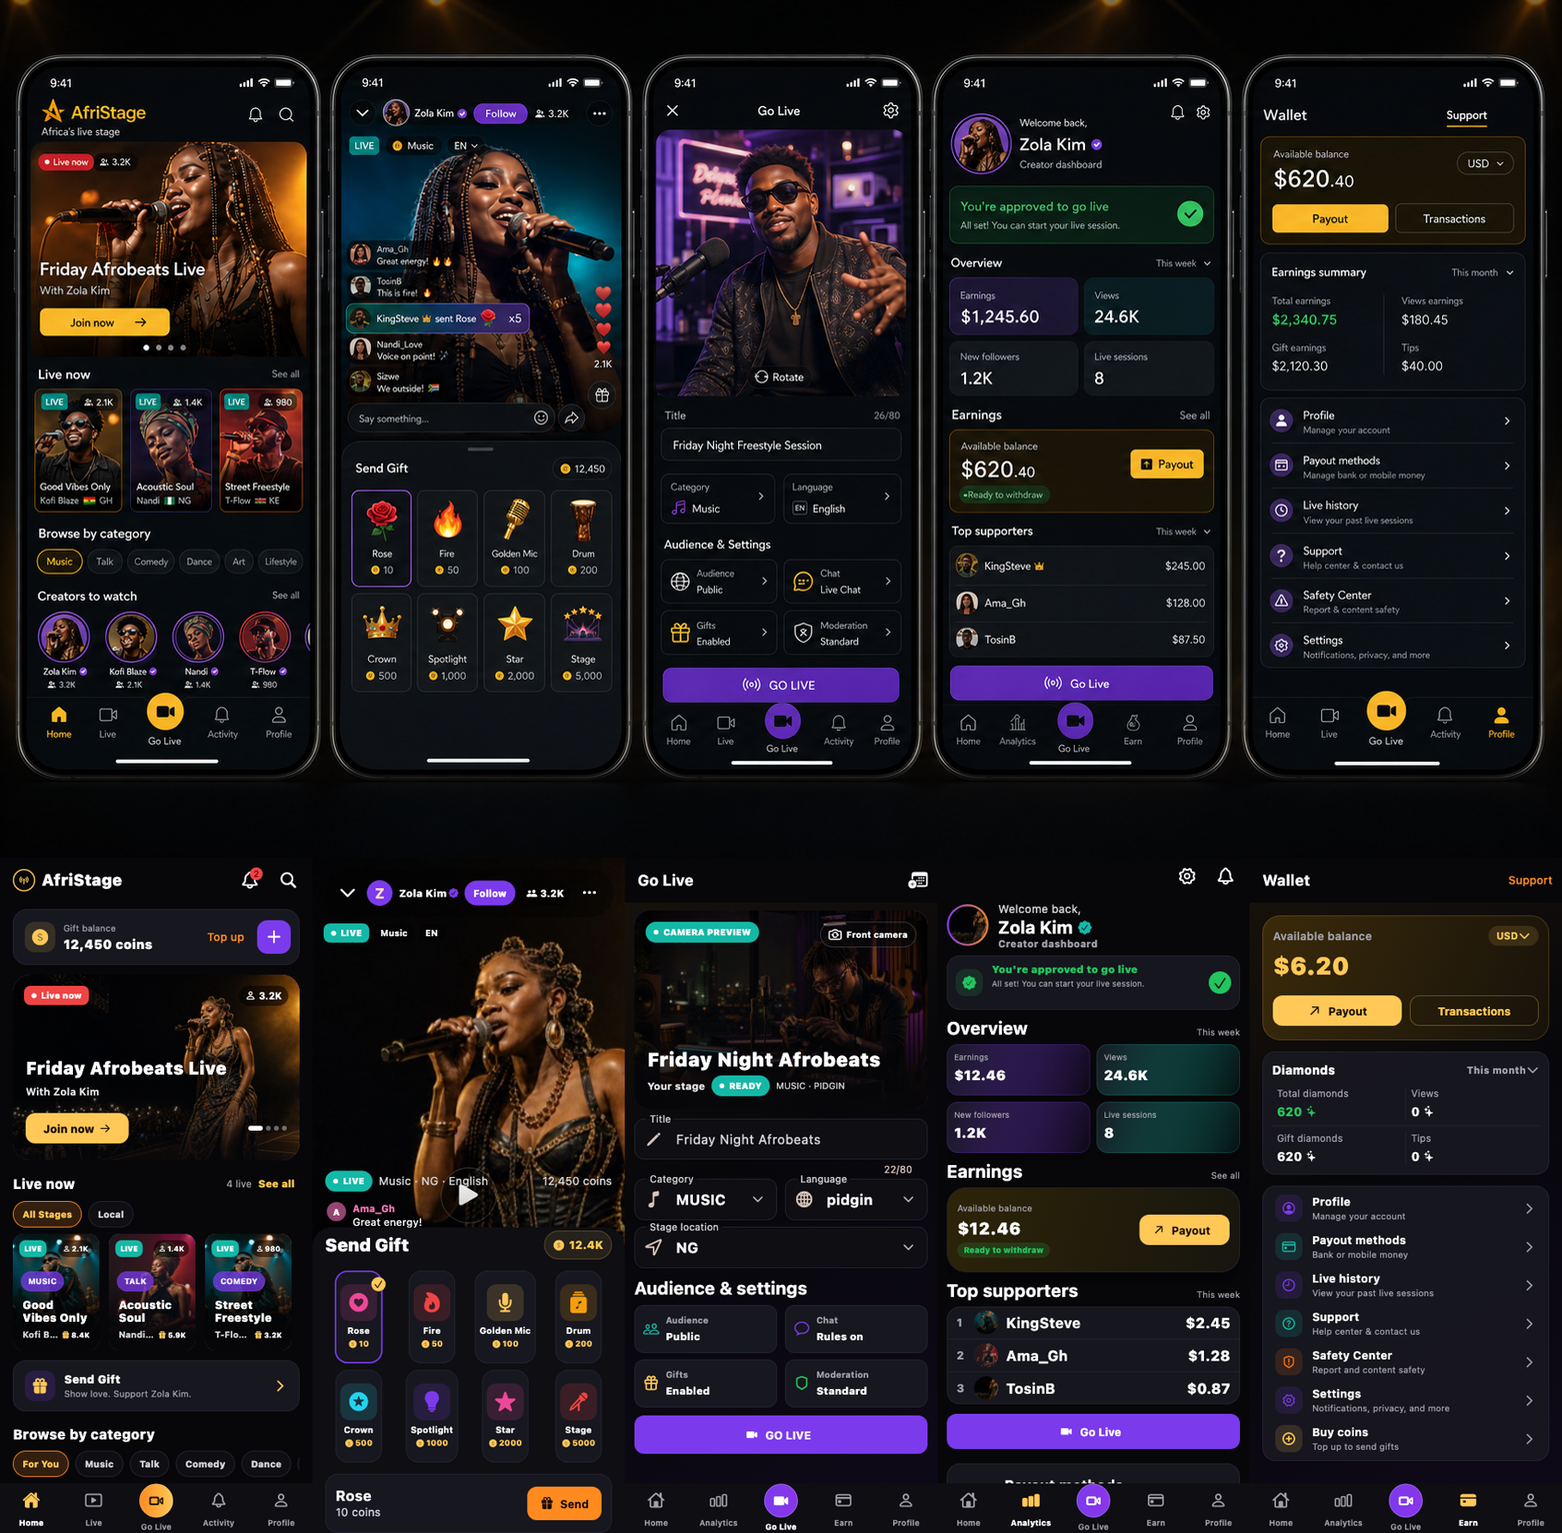
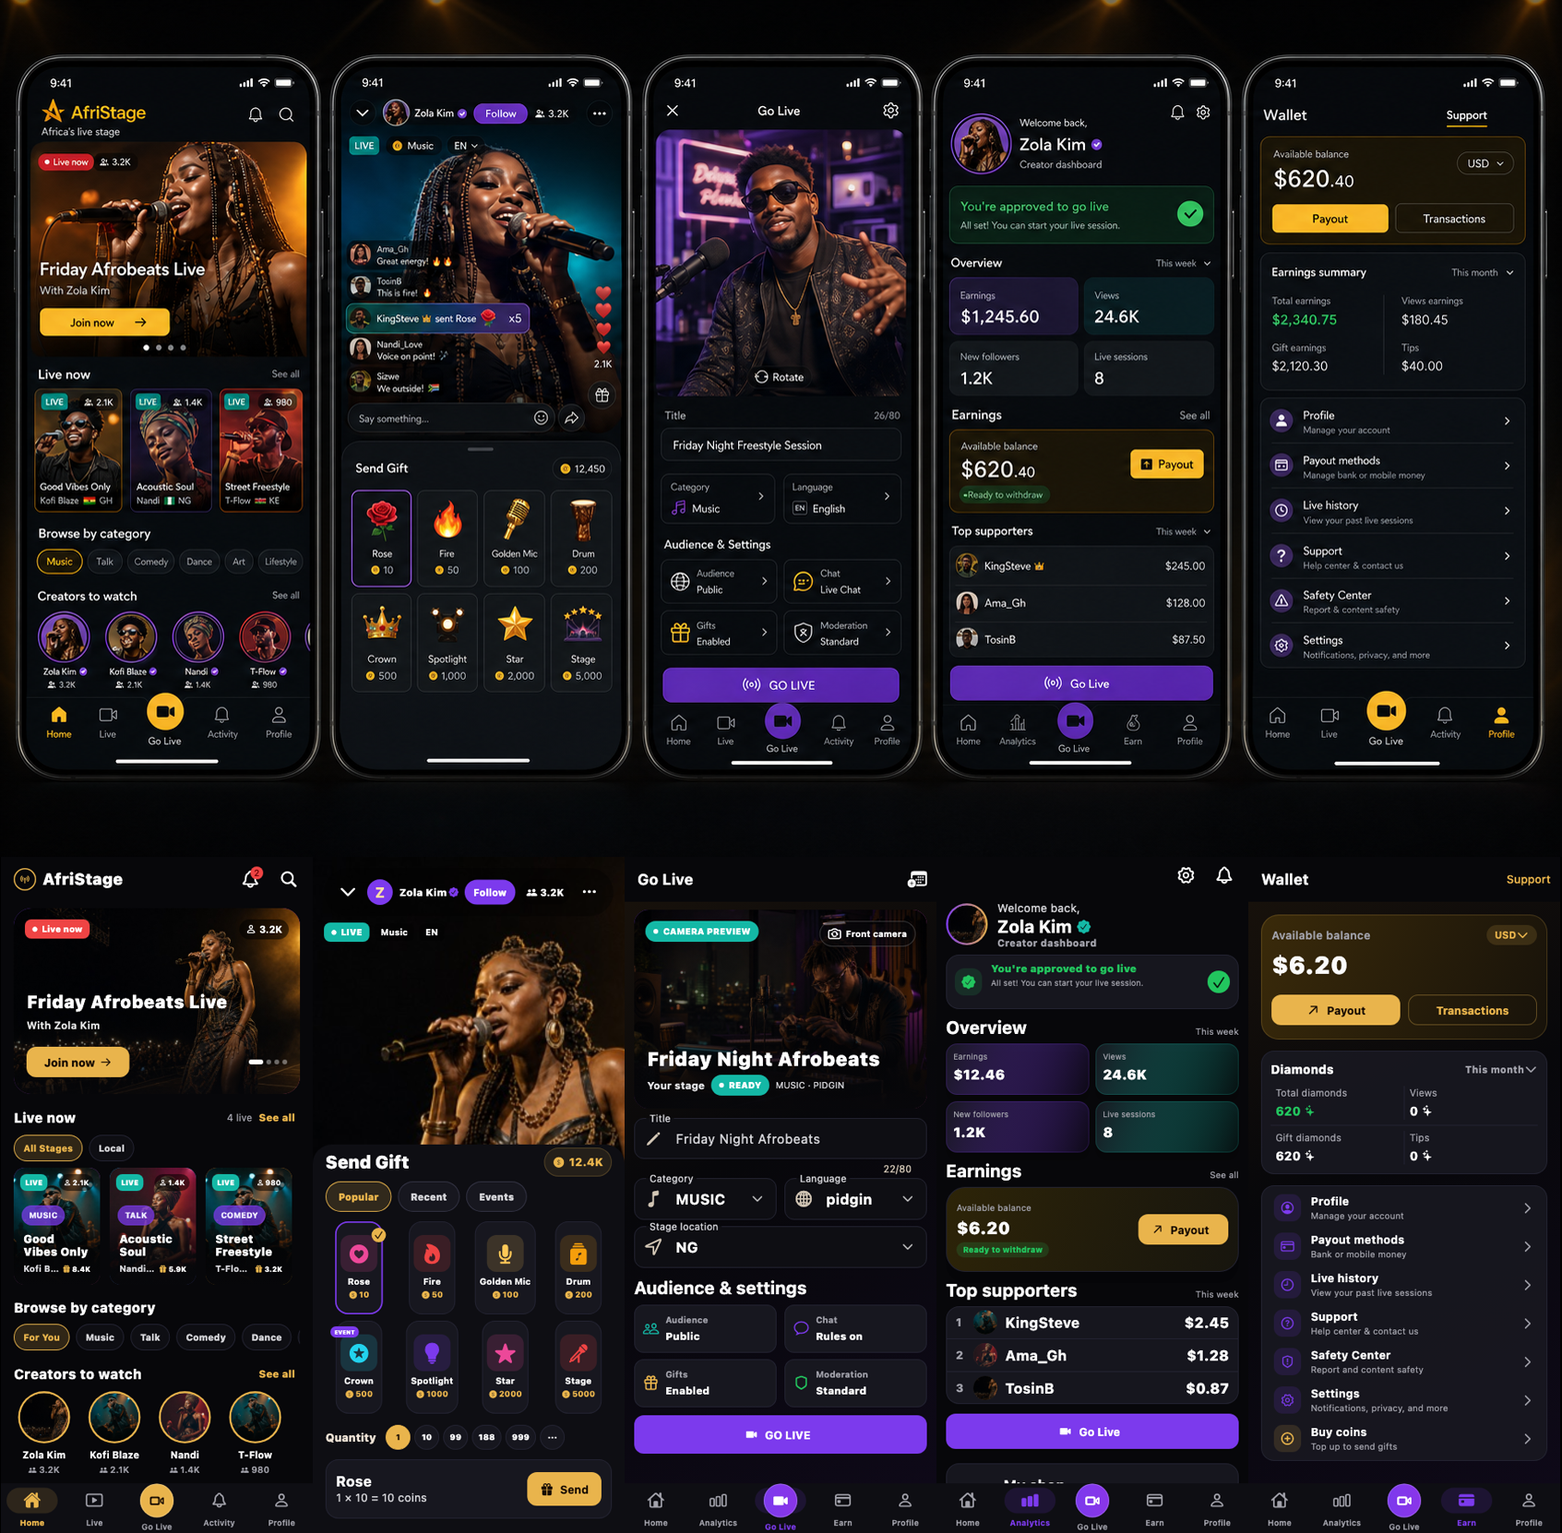
Lead mobile discovery with live content (#307)

diff --git a/apps/mobile/lib/screens/feed_screen.dart b/apps/mobile/lib/screens/feed_screen.dart
@@ -257,16 +257,6 @@ class _FeedScreenState extends State<FeedScreen> {
             return ListView(
               padding: const EdgeInsets.fromLTRB(16, 8, 16, 28),
               children: [
-                _HomeUtilityBar(
-                  coins: coins,
-                  isCreator: state.isCreator,
-                  onWallet: () => Navigator.push(
-                    context,
-                    MaterialPageRoute(builder: (_) => const WalletScreen()),
-                  ),
-                  onGoLive: () => _openCreatorTools(state),
-                ),
-                const SizedBox(height: 12),
                 // Hero featured live card.
                 if (hero != null)
                   AfriHeroLive(
@@ -329,14 +319,6 @@ class _FeedScreenState extends State<FeedScreen> {
                       ),
                     ),
                   ),
-                if (hero != null) ...[
-                  const SizedBox(height: 12),
-                  _SupportCreatorRow(
-                    creator: hero.hostName ?? 'this creator',
-                    onTap: () => _openRoom(hero),
-                  ),
-                ],
-
                 // Upcoming.
                 if (_upcoming.isNotEmpty) ...[
                   const SizedBox(height: 22),
@@ -352,6 +334,30 @@ class _FeedScreenState extends State<FeedScreen> {
                     items: _categories,
                     selected: _category,
                     onSelected: (v) => setState(() => _category = v)),
+
+                if (creators.isNotEmpty) ...[
+                  const SizedBox(height: 16),
+                  _SectionHeader(
+                      title: 'Creators to watch', onSeeAll: _openSearch),
+                  const SizedBox(height: 8),
+                  SizedBox(
+                    height: 122,
+                    child: ListView.separated(
+                      scrollDirection: Axis.horizontal,
+                      itemCount: creators.length,
+                      separatorBuilder: (_, __) => const SizedBox(width: 12),
+                      itemBuilder: (_, i) {
+                        final r = creators.values.elementAt(i);
+                        return AfriCreatorRing(
+                          name: r.hostName ?? 'Creator',
+                          imageUrl: r.coverImageUrl ?? r.hostAvatarUrl,
+                          viewerCount: r.viewerCount,
+                          onTap: () => _openCreator(r),
+                        );
+                      },
+                    ),
+                  ),
+                ],
 
                 if (rooms.isNotEmpty) ...[
                   const SizedBox(height: 18),
@@ -384,27 +390,11 @@ class _FeedScreenState extends State<FeedScreen> {
                   ),
                 ],
 
-                if (creators.isNotEmpty) ...[
-                  const SizedBox(height: 16),
-                  _SectionHeader(
-                      title: 'Creators to watch', onSeeAll: _openSearch),
-                  const SizedBox(height: 8),
-                  SizedBox(
-                    height: 122,
-                    child: ListView.separated(
-                      scrollDirection: Axis.horizontal,
-                      itemCount: creators.length,
-                      separatorBuilder: (_, __) => const SizedBox(width: 12),
-                      itemBuilder: (_, i) {
-                        final r = creators.values.elementAt(i);
-                        return AfriCreatorRing(
-                          name: r.hostName ?? 'Creator',
-                          imageUrl: r.coverImageUrl ?? r.hostAvatarUrl,
-                          viewerCount: r.viewerCount,
-                          onTap: () => _openCreator(r),
-                        );
-                      },
-                    ),
+                if (hero != null) ...[
+                  const SizedBox(height: 14),
+                  _SupportCreatorRow(
+                    creator: hero.hostName ?? 'this creator',
+                    onTap: () => _openRoom(hero),
                   ),
                 ],
                 const SizedBox(height: 24),
@@ -476,92 +466,6 @@ class _FeedScreenState extends State<FeedScreen> {
           ]),
         ]),
       ),
-    );
-  }
-}
-
-class _HomeUtilityBar extends StatelessWidget {
-  const _HomeUtilityBar({
-    required this.coins,
-    required this.isCreator,
-    required this.onWallet,
-    required this.onGoLive,
-  });
-
-  final int coins;
-  final bool isCreator;
-  final VoidCallback onWallet;
-  final VoidCallback onGoLive;
-
-  @override
-  Widget build(BuildContext context) {
-    return Container(
-      padding: const EdgeInsets.fromLTRB(14, 10, 10, 10),
-      decoration: BoxDecoration(
-        color: AfriColors.elevated,
-        borderRadius: BorderRadius.circular(18),
-        border: Border.all(color: AfriColors.border),
-      ),
-      child: Row(children: [
-        Container(
-          width: 38,
-          height: 38,
-          decoration: BoxDecoration(
-            color: AfriColors.gold.withValues(alpha: 0.14),
-            borderRadius: BorderRadius.circular(12),
-          ),
-          child: const Icon(CupertinoIcons.money_dollar_circle_fill,
-              color: AfriColors.gold, size: 23),
-        ),
-        const SizedBox(width: 10),
-        Expanded(
-          child: GestureDetector(
-            onTap: onWallet,
-            behavior: HitTestBehavior.opaque,
-            child: Column(
-              crossAxisAlignment: CrossAxisAlignment.start,
-              children: [
-                const Text('Gift balance',
-                    style:
-                        TextStyle(fontSize: 11, color: AfriColors.mutedText)),
-                Text('${_formatCoins(coins)} coins',
-                    style: const TextStyle(
-                        fontSize: 16,
-                        fontWeight: FontWeight.w900,
-                        color: AfriColors.text)),
-              ],
-            ),
-          ),
-        ),
-        TextButton(
-          onPressed: onWallet,
-          child: const Text('Top up'),
-        ),
-        const SizedBox(width: 4),
-        Semantics(
-          button: true,
-          label: isCreator ? 'Go Live' : 'Apply to Go Live',
-          child: InkWell(
-            onTap: onGoLive,
-            borderRadius: BorderRadius.circular(13),
-            child: Container(
-              width: 42,
-              height: 42,
-              decoration: BoxDecoration(
-                color: AfriColors.purple,
-                borderRadius: BorderRadius.circular(13),
-              ),
-              child: Icon(
-                isCreator
-                    ? CupertinoIcons.video_camera_solid
-                    : CupertinoIcons.add,
-                color: Colors.white,
-                size: 22,
-              ),
-            ),
-          ),
-        ),
-      ]),
     );
   }
 }

diff --git a/apps/mobile/lib/main.dart b/apps/mobile/lib/main.dart
@@ -158,6 +158,8 @@ class _HomeShellState extends State<HomeShell> {
           selectedIcon: Icon(CupertinoIcons.person_fill),
           label: 'Profile'),
     ];
+    final navAccent = isCreator ? AfriColors.broadcast : AfriColors.action;
+    final navTheme = Theme.of(context).navigationBarTheme;
     final safeIndex = _index.clamp(0, pages.length - 1);
     return Scaffold(
       body: pages[safeIndex],
@@ -165,10 +167,34 @@ class _HomeShellState extends State<HomeShell> {
         decoration: const BoxDecoration(
           border: Border(top: BorderSide(color: AfriColors.border)),
         ),
-        child: NavigationBar(
-          selectedIndex: safeIndex,
-          onDestinationSelected: (value) => setState(() => _index = value),
-          destinations: destinations,
+        child: NavigationBarTheme(
+          data: navTheme.copyWith(
+            indicatorColor: navAccent.withValues(alpha: 0.14),
+            labelTextStyle: WidgetStateProperty.resolveWith(
+              (states) => TextStyle(
+                fontSize: 10,
+                fontWeight: states.contains(WidgetState.selected)
+                    ? FontWeight.w800
+                    : FontWeight.w600,
+                color: states.contains(WidgetState.selected)
+                    ? navAccent
+                    : AfriColors.mutedText,
+              ),
+            ),
+            iconTheme: WidgetStateProperty.resolveWith(
+              (states) => IconThemeData(
+                size: 21,
+                color: states.contains(WidgetState.selected)
+                    ? navAccent
+                    : AfriColors.mutedText,
+              ),
+            ),
+          ),
+          child: NavigationBar(
+            selectedIndex: safeIndex,
+            onDestinationSelected: (value) => setState(() => _index = value),
+            destinations: destinations,
+          ),
         ),
       ),
     );

diff --git a/apps/mobile/test/beta_flow_test.dart b/apps/mobile/test/beta_flow_test.dart
@@ -114,6 +114,15 @@ void main() {
     await tester.pumpWidget(wrapWithState(state, const FeedScreen()));
     await tester.pump();
     expect(find.text('Friday Afrobeats Live'), findsWidgets);
+    expect(
+      tester.getTopLeft(find.byType(AfriHeroLive)).dy,
+      lessThan(tester.getTopLeft(find.text('Live now').last).dy),
+    );
+    expect(
+      tester.getTopLeft(find.text('Live now').last).dy,
+      lessThan(tester.getTopLeft(find.text('Browse by category')).dy),
+    );
+    expect(find.text('Gift balance'), findsNothing);
 
     await tester.scrollUntilVisible(
       find.text('More on AfriStage'),
@@ -130,9 +139,31 @@ void main() {
     expect(find.text('Gift Wallet'), findsOneWidget);
     expect(find.text('Gift Balance'), findsOneWidget);
     expect(find.text('128,450'), findsOneWidget);
-    expect(find.text('Send Gift'), findsOneWidget);
+    expect(find.text('Send Gift'), findsWidgets);
     expect(find.text('Top Up'), findsOneWidget);
     expect(find.text('Request payout'), findsOneWidget);
+  });
+
+  testWidgets('creator navigation uses the broadcast accent', (tester) async {
+    final state = AppState(api: _FeedApiClient())..role = 'CREATOR';
+
+    await tester.pumpWidget(ChangeNotifierProvider<AppState>.value(
+      value: state,
+      child: MaterialApp(theme: AfriTheme.dark(), home: const HomeShell()),
+    ));
+    await tester.pump();
+
+    final navTheme = tester.widget<NavigationBarTheme>(
+      find.byType(NavigationBarTheme).last,
+    );
+    expect(
+      navTheme.data.iconTheme!.resolve({WidgetState.selected})!.color,
+      AfriColors.broadcast,
+    );
+    expect(
+      navTheme.data.labelTextStyle!.resolve({WidgetState.selected})!.color,
+      AfriColors.broadcast,
+    );
   });
 
   testWidgets('gift drawer shows balance, buy coins, prices, and send action',

diff --git a/apps/mobile/lib/screens/wallet_screen.dart b/apps/mobile/lib/screens/wallet_screen.dart
@@ -183,7 +183,7 @@ class _WalletScreenState extends State<WalletScreen> {
                 icon: CupertinoIcons.creditcard,
                 title: 'Payout methods',
                 subtitle: 'Bank or mobile money',
-                accent: AfriColors.teal,
+                accent: AfriColors.purple,
                 onTap: () => Navigator.push(
                     context,
                     MaterialPageRoute(
@@ -199,14 +199,14 @@ class _WalletScreenState extends State<WalletScreen> {
                 icon: CupertinoIcons.question_circle,
                 title: 'Support',
                 subtitle: 'Help center & contact us',
-                accent: AfriColors.teal,
+                accent: AfriColors.purple,
                 onTap: () => Navigator.push(context,
                     MaterialPageRoute(builder: (_) => const SupportScreen()))),
             AfriMenuRow(
                 icon: CupertinoIcons.exclamationmark_shield,
                 title: 'Safety Center',
                 subtitle: 'Report and content safety',
-                accent: AfriColors.warning,
+                accent: AfriColors.purple,
                 onTap: () => ScaffoldMessenger.of(context).showSnackBar(
                     const SnackBar(
                         content: Text(

diff --git a/apps/mobile/lib/widgets/afri_live.dart b/apps/mobile/lib/widgets/afri_live.dart
@@ -666,7 +666,7 @@ class AfriBalanceCard extends StatelessWidget {
             style: const TextStyle(
                 fontSize: 30,
                 fontWeight: FontWeight.w900,
-                color: AfriColors.gold)),
+                color: AfriColors.text)),
         const SizedBox(height: 10),
         Row(children: [
           Expanded(

diff --git a/design-qa.md b/design-qa.md
@@ -37,7 +37,7 @@
 ## Current landing and mobile findings
 
 - No actionable P0/P1/P2 differences remain in the current landing exposure pass. The final render keeps the complete navigation, Join Beta control, performer, live panel, audience, and CTAs visible while carrying the reference's brighter gold spotlight, warmer subject exposure, larger editorial headline, and photographic creator avatars.
-- No actionable P0/P1/P2 differences remain in the current five-state mobile pass. Viewer Home now includes the top balance/top-up/Go Live utilities, real gift totals, standalone Send Gift row, recommendations, and Activity navigation. The live room includes verified/overflow controls, a correctly focused performer image, bundled gift icons, balance, selection, and Send action. Go Live, creator dashboard, and wallet retain their complete first-screen hierarchy.
+- No actionable P0/P1/P2 differences remain in the current five-state mobile pass. Viewer Home now opens on the featured performance, then live rooms, categories, and creator portraits; wallet and secondary utilities sit below discovery instead of displacing it. The live room includes verified/overflow controls, a correctly focused performer image, bundled gift icons, balance, selection, and Send action. Go Live, creator dashboard, and wallet retain their complete first-screen hierarchy.
 - Go Live uses a dedicated creator-control studio scene instead of recycling the viewer-home performer artwork.
 
 - [P3] The public brand mark is the closest library icon, not the final custom vector.
@@ -81,6 +81,7 @@
 16. The landing remained visibly flatter after the first exposure pass. A second image-backed screen layer, stronger gold spotlight, lighter directional scrim, larger display type, and brighter live-panel glow produced the final 1536×1024 CSS-viewport render while retaining readable contrast and all primary controls.
 17. The element inventory found eight remaining mobile gaps. The final pass added the verified badge, viewer overflow action, Activity tab, top balance/top-up and Go Live controls, standalone Send Gift row, recommendation rail, API-backed per-room gift totals, and creator Request Payout action.
 18. The last live-room capture placed the singer too far off-axis. The stage focal alignment was corrected and the regenerated capture now keeps the performer’s face, microphone, tags, playback control, and open gift drawer within the intended hierarchy.
+19. The final BIGO comparison exposed a remaining hierarchy mismatch: Home led with an account-utility card and placed recommendations ahead of creator discovery. Home now leads with the live hero, follows the reference order through live rooms, categories, and creators, then defers recommendations and wallet utilities. Creator navigation resolves selected states in broadcast purple, and Wallet uses a white primary balance plus a single purple menu accent system. The regenerated 1693×1662 comparison board contains the supplied five-screen source and the five final 390×844 renders in one image.
 
 ## Primary interactions and technical evidence
 
@@ -93,7 +94,7 @@
 - Browser console warnings/errors: no application warnings/errors in the final `/site` render.
 - Admin web: focused landing tests 7/7 passed; optimized Next.js build passed.
 - API feed engine: 14/14 focused tests passed, including real gift-total aggregation and the zero-total path.
-- Mobile: `flutter analyze` clean; 353 tests passed with one capture-only test skipped by default. The capture-only test passes separately and regenerates the five final 390×844 states.
+- Mobile: `flutter analyze` clean; 412 tests passed with one capture-only test skipped by default. The capture-only test passes separately and regenerates the five final 390×844 states; 25 focused UI tests cover the revised hierarchy and role-aware navigation.
 
 ## Current implementation checklist
 

diff --git a/FEATURE_TRACKER.md b/FEATURE_TRACKER.md
@@ -914,6 +914,7 @@ imagery provenance for the `/site` marketing photos before any marketing push
 | **Public viewer live-state overlay** — real playback exposed a race where a video track subscribed during `Room.connect()`, cleared the loading state, and was then covered again by “Waiting for the stage…” when the connection promise resolved. The viewer now records the video subscription independently and only shows the waiting state when no video has arrived. | TESTED | Regression reproduces a video subscription during `connect()` and proves neither loading overlay is restored. Web suite **77/77**, 100% statements/branches/functions/lines, and optimized production build pass. Deployed playback re-check pending. |
 | **Flutter web registration CORS** — deployed Flutter registration preflight had no `Access-Control-Allow-Origin` and browser signup failed before reaching the API. API now has a narrow first-party allow-list fallback plus explicit preflight handling ahead of security middleware; unlisted origins receive `403`. | VERIFIED (staging) | API deployment `810305fb-aae0-4f95-93fb-da4591e5f175` succeeded. `OPTIONS /api/auth/register` from `https://flutter-web-production-b292.up.railway.app` returns **204** with matching `access-control-allow-origin`, credentials, methods and headers; `/api/health` returns **200** with the same origin header; `https://evil.example` preflight returns **403**. CORS unit suite **11/11**, API lint/build passed. |
 | **Flutter authentication form clarity and registration spacing** — login and registration now keep field labels visible, state what information is expected and how it is used, expose password/profile requirements, provide autofill and keyboard actions, and size each registration step to its content instead of reserving a fixed 360px blank area. The registration app bar no longer overlays the form header. | VERIFIED (staging) | Flutter suite **411 passed / 1 capture-only skipped**, `flutter analyze` clean, release web build passed. A 390×844 widget regression enforces a field-to-Continue gap of at most **40px**. Railway deployment `e5735920-0654-4ed5-977a-f168e4302555` succeeded; live browser evidence shows the login guidance and the Create Account screen with email privacy copy, the 8-character password requirement, Continue immediately after the fields, and legal links visible in the same mobile viewport. |
+| **Mobile BIGO-fidelity hierarchy pass** — Viewer Home now leads with the featured performance and follows live rooms → categories → creators before recommendations and wallet utilities; creator navigation selected states use broadcast purple; Wallet uses a white primary balance and one restrained purple menu accent system. No backend, ledger, or payout behavior changed. | TESTED | Flutter suite **412 passed / 1 capture-only skipped**, `flutter analyze` clean, release web build passed, focused UI suite **25/25**, and the capture harness regenerated five 390×844 states. The same-input source/current board is `qa-mobile-reference-current.png`; `design-qa.md` records no remaining P0/P1/P2 mismatch. Not `VERIFIED` until the Flutter web deployment and a real browser/device check pass. |
 
 ## Verification debt
 
